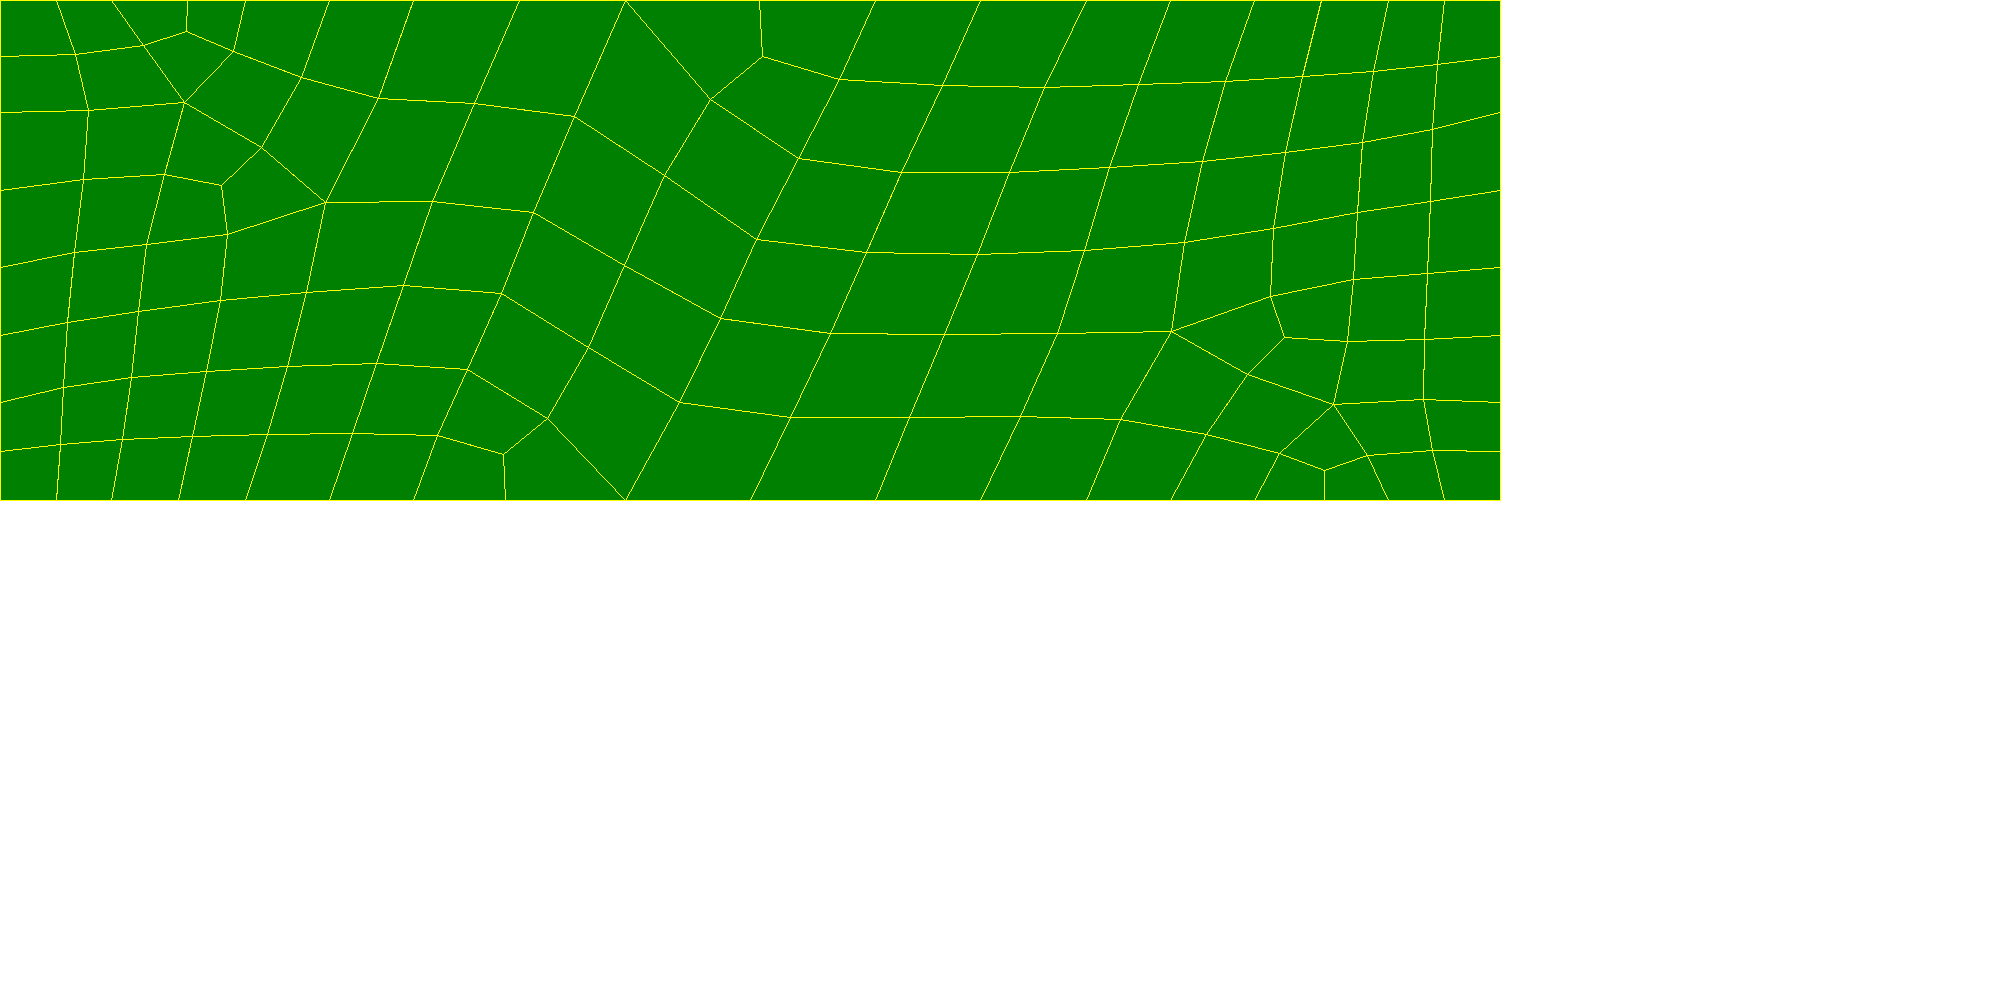
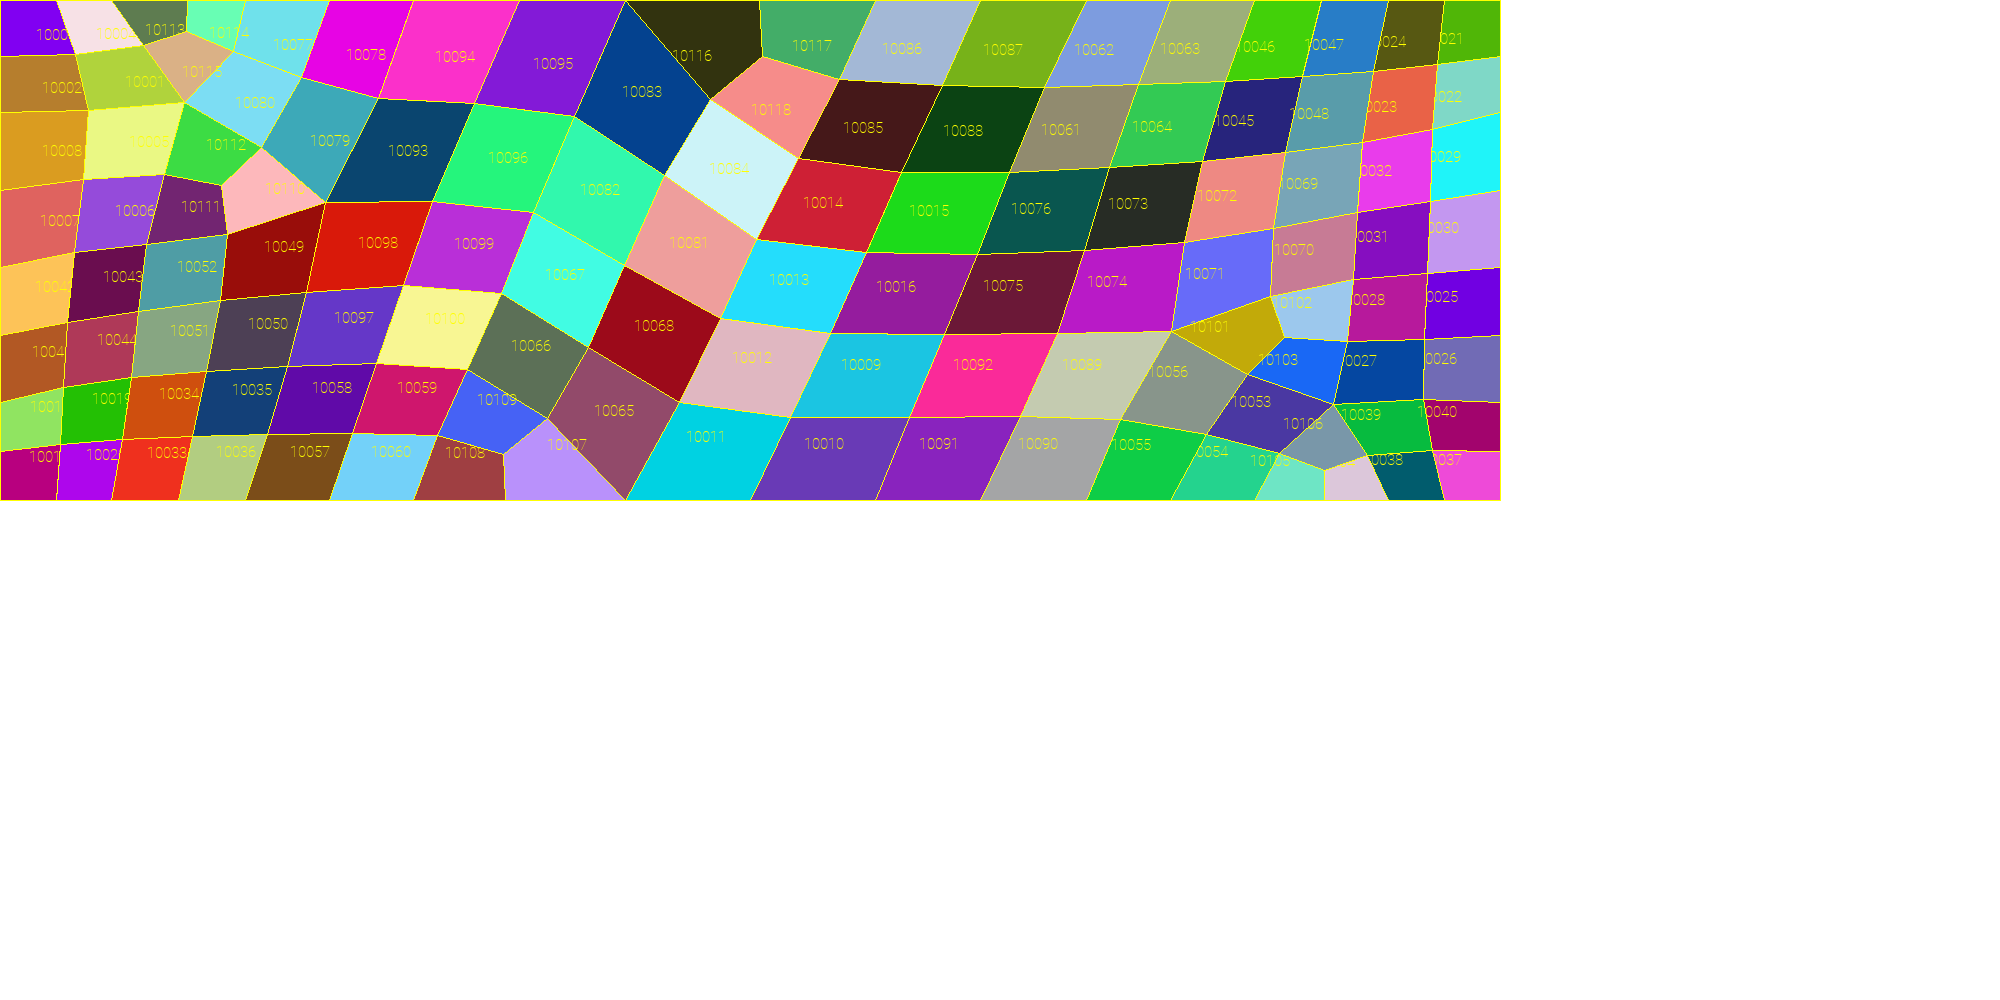
add color to sheme

diff --git a/sofistik/utils.py b/sofistik/utils.py
@@ -1,5 +1,6 @@
 import json
 from PIL import Image, ImageDraw, ImageFont
+from random import randint
 
 
 def write_to_file(data: dict, filename: str) -> None:
@@ -14,9 +15,37 @@ def read_data_from_file(filename: str) -> dict:
     return data
 
 
-def create_image(data: list, image_name: str) -> None:
+def create_image(quad: dict, image_name: str) -> None:
+
     img = Image.new('RGB', (2000, 1000), (255, 255, 255))
-    d = ImageDraw.Draw(img)
-    for rectangle in data:
-        d.polygon(rectangle, fill="green", outline='yellow')
+    draw = ImageDraw.Draw(img)
+    for quad_number, rectangle in quad.items():
+
+        coords = list(rectangle)
+
+        # Prepare text
+        text_x, text_y = text_coordinates(coords)
+        fontsize = 15
+        font = ImageFont.truetype(font="../fonts/Roboto-Thin.ttf", size=fontsize)
+
+        # draw result
+        draw.polygon(coords, fill=(randint(0, 255), randint(0, 255), randint(0, 255)), outline='yellow')
+        draw.text((text_x, text_y), quad_number, font=font, fill='yellow')
     img.save(image_name)
+
+
+def text_coordinates(quad: list) -> tuple:
+    all_x_coords, all_y_coords = [], []
+    for coord in quad:
+        all_x_coords.append(coord[0])
+        all_y_coords.append(coord[1])
+
+    # all_x_coords.remove(max(all_x_coords))
+    # all_x_coords.remove(min(all_x_coords))
+    # all_y_coords.remove(max(all_y_coords))
+    # all_y_coords.remove(min(all_y_coords))
+
+    average_x = max(all_x_coords) - (max(all_x_coords) - min(all_x_coords)) / 2  # + min(all_x_coords)
+    average_y = max(all_y_coords) - (max(all_y_coords) - min(all_y_coords)) / 2  # + min(all_y_coords)
+
+    return average_x * 0.97, average_y * 0.95

diff --git a/sofistik/sofistik.py b/sofistik/sofistik.py
@@ -9,7 +9,7 @@ import re
 
 from sofistik_daten import *
 from ctypes import *    # read the functions from the cdb
-from utils import write_to_file, read_data_from_file, create_image
+from utils import write_to_file, read_data_from_file, create_image, text_coordinates
 
 console_logger = logging.getLogger(__name__)
 formatter = logging.Formatter(datefmt="%Y.%m.%d %H:%M:%S", fmt='%(asctime)s | func name: %(funcName)s |'
@@ -156,18 +156,20 @@ class Sofistik:
 #     console_logger.info(f'{quad_number}: {nodes_list}')
 
 
-# ------ Write to a file and extract it back --------
+# # ------ Write to a file and extract it back --------
 # write_to_file(data=quad_dict, filename='./rectangles.txt')
-data = read_data_from_file('./rectangles.txt')
+quad_dict = read_data_from_file('./rectangles.txt')
 
 #  Draw rectangles!!!!
-
-# rectangles = [rectangle for rectangle in quad_dict.values()]
-rectangles = list()
-for coords in data.values():
+for quad_number, coords in quad_dict.items():
     rectangle = list()
     for coord in coords:
         rectangle.append(tuple(coord))
-    rectangles.append(rectangle)
+    quad_dict[quad_number] = tuple(rectangle)
 
-create_image(data=rectangles, image_name='test_image_from_python.png')
+
+#rectangles = list(quad_dict.values())
+
+create_image(quad=quad_dict, image_name='test_image_from_python.png')
+
+
